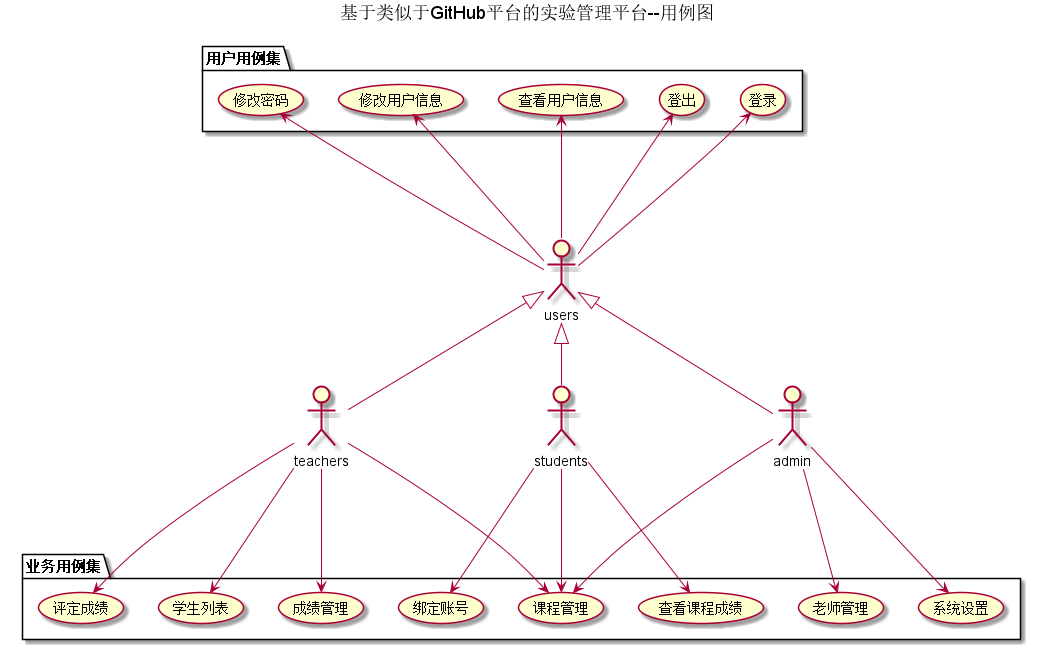
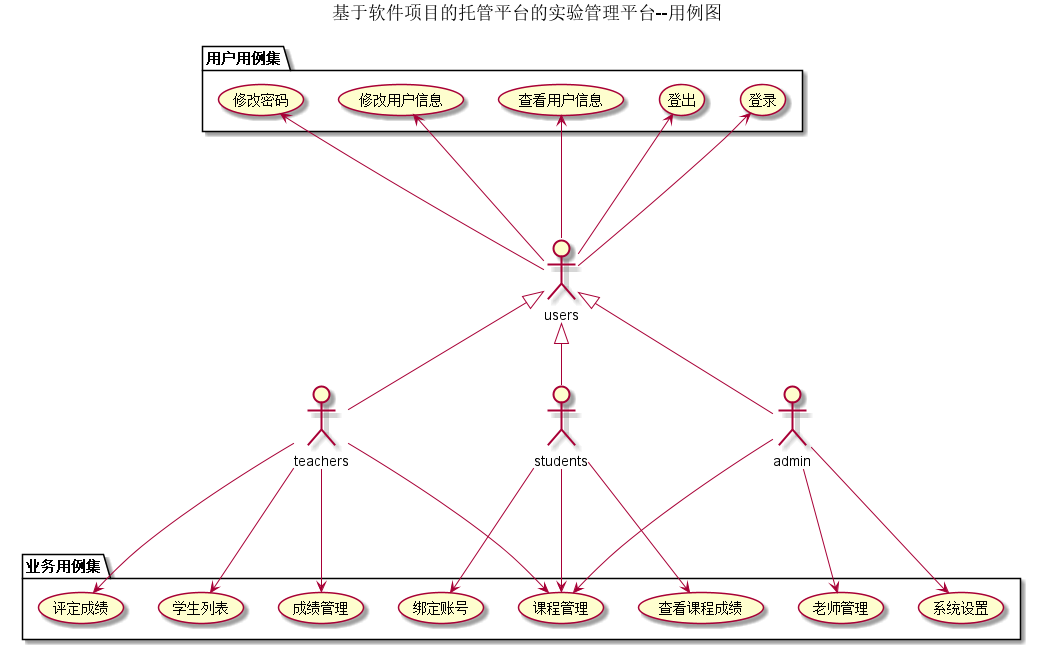
1.0 -version

Changed region(s): [[0.3074, 0.0, 0.707, 0.0308]]

diff --git a/test6/数据库设计.md b/test6/数据库设计.md
@@ -1,0 +1,71 @@
+<!-- markdownlint-disable MD033-->
+<!-- 禁止MD033类型的警告 https://www.npmjs.com/package/markdownlint -->
+
+# 数据库设计 [首页](README.md)
+    
+<div id="USERS"></div>
+
+- ## USERS表（用户表）
+
+    |字段|类型|主键，外键|可以为空|默认值|约束|说明|
+    |:-------:|:-------------:|:------:|:----:|:---:|:----:|:----------|
+    |USER_ID|NUMBER(8,0)|主键|否| | | 用户ID|
+    |NAME|VARCHAR2(50 BYTE)| |否| | | 用户真实姓名|
+    |GITHUB_USERNAME|VARCHAR2(50 BYTE)| |是|空| | GitHUB用户名|
+    |UPDATE_DATE|DATE| |是|空| | GitHUB用户名修改日期|
+    |PASSWORD|VARCHAR2(512 BYTE)| |是|空| | 加密存储密码，为空表示密码就是学号|
+    |DISABLE|VARCHAR2(20 BYTE)| |否| | |是否禁用,值为是表示禁用,其他表示正常.|
+
+<div id="TEACHERS"></div>
+
+- ## TEACHERS表（老师表）
+
+    |字段|类型|主键，外键|可以为空|默认值|约束|说明|
+    |:-------:|:-------------:|:------:|:----:|:---:|:----:|:----------|
+    |TEACHER_ID|VARCHAR2(50 BYTE)|主键|否| | | 老师的编号|
+    |USER_ID|NUMBER(8,0)|外键|是| | | 老师的用户ID，USERS表的外键|
+    |DEPARTMENT|VARCHAR2(400 BYTE)| |否| | | 老师属于的部门|
+
+<div id="STUDENTS"></div>
+
+- ## STUDENTS表（学生表）
+
+    |字段|类型|主键，外键|可以为空|默认值|约束|说明|
+    |:-------:|:-------------:|:------:|:----:|:---:|:----:|:----------|
+    |STUDENT_ID|VARCHAR2(50 BYTE)|主键|否| | | 学生的学号|
+    |USER_ID|NUMBER(8,0)|外键|是| |空| 学生的用户ID，USERS表的外键，为空表示还没有建立用户| 
+    |MAJOR|VARCHAR2(20 BYTE)| |否| | |学生的专业|   
+    |CLASSNUM|VARCHAR2(20 BYTE)| |否| | |学生的班级号|
+    |RESULT_SUM|VARCHAR2(400 BYTE)|外键|是|空| | 成绩汇总（来自GRADES表），以逗号分开，第一个成绩是平均成绩,后面是每次实验的成绩，N表示未批改，平均分只计算已批改的。比如：“81.25,70,80,85,90,N”表示一共批改了4次，第5次未批改，4次的成绩分别是81.25,70,80,85,90,N，4次的平均分是81.25|
+    |WEB_SUM|VARCHAR2(400 BYTE)| |是|空| | GitHub网址是否正确，用逗号分开，Y代表正确，N代表不正确。第1位代表总的GitHUB地址是否正确，第2位表示第1次实验的地址，第3位表示第2位实验地址，依此类推。比如：“Y,Y,Y,Y,Y,N”表示第5次实验地址不正确，其他地址正确|
+ 
+<div id="GRADES"></div>
+
+- ## GRADES表（学生实验成绩表）
+
+    |字段|类型|主键，外键|可以为空|默认值|约束|说明|
+    |:-------:|:-------------:|:------:|:----:|:---:|:----:|:----------|
+    |STUDENT_ID|VARCHAR2(50 BYTE)|联合主键1，外键|否| | | 学生的学号，STUDENTS表外键|
+    |TEST_ID|NUMBER(6,0)|联合主键2，外键|否| | | 实验编号，TESTS表的外键|
+    |RESULT|NUMBER|主键|是|空| 取值0-100| 分数，这个值为空表示没有批改|
+    |MEMO|VARCHAR2(400 BYTE)| |是|空| | 老师对实验的评语|
+    |UPDATE_DATE|DATE| |是|空| |老师批改实验的日期，为空表示未批改|
+
+<div id="TESTS"></div>
+
+- ## TESTS表（实验项目表）
+
+    |字段|类型|主键，外键|可以为空|默认值|约束|说明|
+    |:-------:|:-------------:|:------:|:----:|:---:|:----:|:----------|
+    |TEST_ID|NUMBER(6,0)|主键|否| | | 实验编号|
+    |TITLE|VARCHAR2(100 BYTE)| |否| | | 实验名称|
+<div id="COURSE"></div>
+
+- ## COURSEB表(课程表)
+     |字段|类型|主键，外键|可以为空|默认值|约束|说明|
+     |:-------:|:-------------:|:------:|:----:|:---:|:----:|:----------|
+     |course_id|NUMBER(6,0)|主键|否| | | 课程编号|
+     |course_name|VARCHAR2(100 BYTE)| |否| | | 课程名称|
+     |course_time|int||否| | | 学时|
+     |start_time|DATE||否| | | 开课时间|
+     |end_time|DATE||否| | | 结课时间|

diff --git a/test6/README.md b/test6/README.md
@@ -1,5 +1,5 @@
 
-# 基于类似于GitHub平台的实验管理平台的分析与设计
+# 基于软件项目的托管平台的实验管理平台的分析与设计
 
 ### 成都大学信息科学与工程学院
 
@@ -8,7 +8,7 @@
 |201610414325|软件(本)16-3|吴伟辉|![flow1](../myself.jpg)|
 
 ## 1. 概述
-- 基于类似于GitHub平台的实验管理平台的作用是在线管理实验成绩的Web应用系统。学生和老师的实验内容均存放在Github,Gitlab,Gitee等页面上。
+- 基于软件项目的托管平台的实验管理平台的作用是在线管理实验成绩的Web应用系统。学生和老师的实验内容均存放在Github,Gitlab,Gitee等页面上。
 - 学生的功能主要有：一是设置自己的Github,Gitlab,Gitee等用户名，二是查询自己的实验成绩。学生的Github,Gitlab,Gitee等用户名是公开的，但成绩不公开。
 - 学生可以在实验平台中绑定帐号，如果有多个帐号，可以选择提交作业的帐号。
 - 老师的功能主要有：一是批改每个学生的成绩，二是查看每个学生的成绩。
@@ -25,22 +25,22 @@
 
 界面设计参见：https://wwhkiller.github.io/is_analysis_pages/test6_Ui/index.html
     
-## 3. 用例图设计 [源码](UseCase.puml)
+## 3. 用例图设计 [源码](./src/UseCase.puml)
 ![](UseCase.png)
 
-## 4. 类图设计 [源码](src/class.puml)
-![](./class.png)
+## 4. 类图设计 [源码](./src/class.puml)
+![](class.png)
 
 ## 5. 数据库设计
-- ### [参见数据库设计](./数据库设计.md)
+- ### [参见数据库设计](数据库设计.md)
 
 ## 6. 用例及界面详细设计
-- ### [“学生列表”用例](./用例/学生列表.md),[界面](https://zwdbox.github.io/is_analysis/test6/ui/index.html)
+- ### [“学生列表”用例](./用例/学生列表.md),[界面1]( https://wwhkiller.github.io/is_analysis_pages/test6_Ui/index.html),[界面2](https://wwhkiller.github.io/is_analysis_pages/test6_Ui/teacher.html)
 - ### [“评定成绩”用例](./用例/评定成绩.md),[界面](https://zwdbox.github.io/is_analysis/test6/ui/评定成绩.html)
 - ### [“查看成绩”用例](./用例/查看成绩.md),[界面](https://zwdbox.github.io/is_analysis/test6/ui/查看成绩.html)
 - ### [“修改密码”用例](./用例/修改密码.md),[界面](https://zwdbox.github.io/is_analysis/test6/ui/顶部菜单.html)
 - ### [“修改用户信息”用例](./用例/修改用户信息.md),[界面](https://zwdbox.github.io/is_analysis/test6/ui/顶部菜单.html)
 - ### [“查看用户信息”用例](./用例/查看用户信息.md),[界面](https://zwdbox.github.io/is_analysis/test6/ui/顶部菜单.html)
-- ### [“登出”用例](./用例/登出.md),[界面](https://zwdbox.github.io/is_analysis/test6/ui/顶部菜单.html)
+- ### [“登出”用例](./用例/注销.md),[界面](https://zwdbox.github.io/is_analysis/test6/ui/顶部菜单.html)
 - ### [“登录”用例](./用例/登录.md),[界面](https://zwdbox.github.io/is_analysis/test6/ui/登录.html)
     

diff --git a/test6/用例/学生列表.md b/test6/用例/学生列表.md
@@ -1,0 +1,46 @@
+<!-- markdownlint-disable MD033-->
+<!-- 禁止MD033类型的警告 https://www.npmjs.com/package/markdownlint -->
+
+# “学生列表”用例 [返回](../README.md)
+## 1. 用例规约
+
+|用例名称|学生列表|
+|-------|:-------------|
+|功能|以表形式的显示出所有学生的信息|
+|参与者|游客，老师|
+|前置条件|老师需要先登录|
+|后置条件| |
+|主事件流| |
+|备选事件流| |
+
+## 2. 业务流程（顺序图） [源码](../src/sequence学生列表.puml)
+![sequence1](../sequence学生列表.png) 
+
+## 3. 界面设计
+- 界面参照: https://wwhkiller.github.io/is_analysis_pages/test6_Ui/index.html <br>
+           https://wwhkiller.github.io/is_analysis_pages/test6_Ui/teacher.html
+- API接口调用
+    - 接口1：[getStudents](../接口/getStudents.md) 
+
+## 4. 算法描述
+
+- WEB_SUM解析为列表  
+  - WEB_SUM是接口getStudents的返回值中的一部分，形如："WEB_SUM": "Y,Y,Y,Y,Y,N"。需要在前端进行解析。  
+  - 作用是判断GitHub网址是否正确，用逗号分开，Y代表正确，N代表不正确。  
+  - 第1位代表总的GitHUB地址是否正确，第2位表示第1次实验的地址，第3位表示第2位实验地址，依此类推。
+  - 比如：“Y,Y,Y,Y,Y,N”表示第5次实验地址不正确，其他地址正确。  
+  - 算法是使用使用字符串分离方法将其分开。
+
+- RESULT_SUM解析为列表
+    - RESULT_SUM是接口getStudents的返回值中的一部分，形如："RESULT_SUM": "81.25,70,80,85,90,N"。需要在前端进行解析。
+    - 成绩汇总（来自GRADES表），以逗号分开，第一个成绩是平均成绩,后面是每次实验的成绩，N表示未批改，平均分只计算已批改的。    
+    - 比如：“81.25,70,80,85,90,N”表示一共批改了4次，第5次未批改，4次的成绩分别是81.25,70,80,85,90,N，4次的平均分是81.25
+    - 算法是使用使用字符串分离方法将其分开。
+    
+## 5. 参照表
+
+- [STUDENTS](../数据库设计.md/#STUDENTS)
+- [GRADES](../数据库设计.md/#GRADES)
+- [TESTS](../数据库设计.md/#TESTS)
+
+
